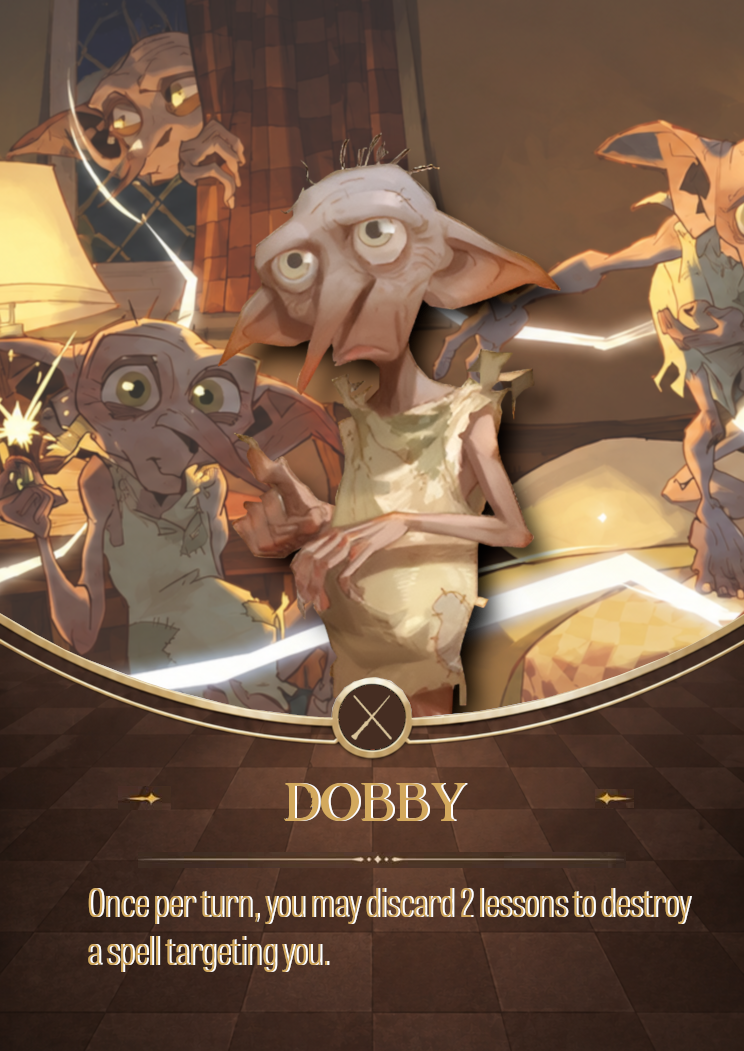
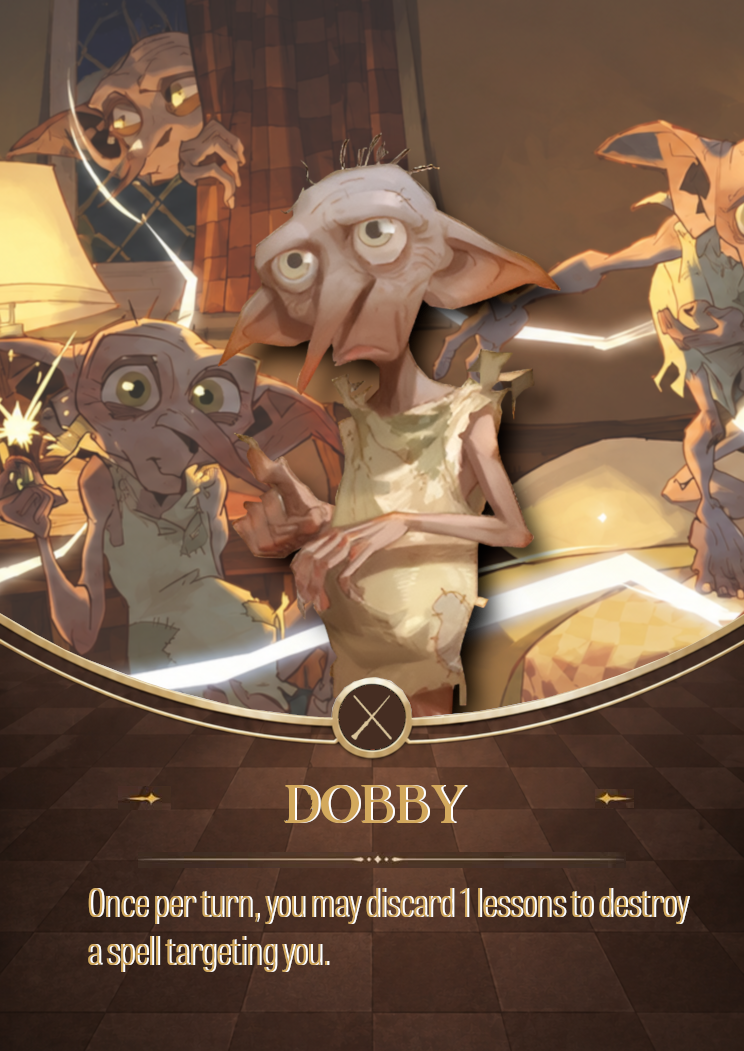
v1.95 Draco is here

Changed region(s): [[0.4019, 0.7307, 0.6183, 0.7916], [0.6183, 0.8221, 0.9274, 0.883]]

diff --git a/index.html b/index.html
@@ -246,7 +246,7 @@
 <div class="modal" id="deckCodeModal" style="z-index:1100;width:min(620px,94vw)"><div style="display:flex;justify-content:space-between;align-items:center;gap:8px"><h2 id="deckCodeTitle" style="margin:0">Deck Code</h2><button onclick="closeDeckCodeModal()">Close</button></div><p id="deckCodeHelp"></p><textarea id="deckCodeInput" spellcheck="false" style="width:100%;height:135px;resize:vertical;background:#0e1116;color:#eee;border:1px solid #48515e;border-radius:7px;padding:10px;font:12px monospace;margin:8px 0"></textarea><div style="display:flex;justify-content:flex-end;gap:8px"><button id="deckCodeCopy" onclick="copyDeckCode()">Copy Code</button><button id="deckCodeImport" onclick="importDeckCode()">Import Deck</button></div></div><div id="lookRevealOverlay" class="lookRevealOverlay" style="display:none"><div class="lookRevealPanel"><div class="lookRevealHeader"><b id="lookRevealTitle">Opponent reveals cards</b><button onclick="closeLookReveal()">Close</button></div><div id="lookRevealCards" class="lookRevealCards"></div></div></div><div class="deckModal" id="deckModal"><div class="deckBox"><div class="deckHead"><b id="deckTitle">Deck</b><button onclick="closeDeckViewer()">Close</button></div><div class="deckControls" id="deckControls"></div><div class="deckCards" id="deckCards"></div></div></div><script src="https://cdn.jsdelivr.net/npm/@supabase/supabase-js@2/dist/umd/supabase.js"></script><script>
 let id=1,phase='setup',turn=1,sel=null,selDeck=null,viewPlayer=1;const P={1:newP(),2:newP()};function newP(){return{main:[],lessonDeck:[],hand:[],handRevealed:false,lessons:[],play:[],discard:[],lessonDiscard:[],mull:[],char:null,life:20,actionsLeft:2,lessonsPlayed:0,dobbyUsed:false}}
 let history=[];function snapshot(){return JSON.parse(JSON.stringify({P,phase,turn}));}function pushHistory(){if(phase!=='game')return;history.push(snapshot());if(history.length>50)history.shift();}function undoMove(){if(lobbyMode==='invite'&&onlineStarted){requestOnlineUndo();return}if(phase!=='game'||!history.length){toast('Nothing to undo.');return}let h=history.pop();Object.keys(P).forEach(k=>P[k]=h.P[k]);phase=h.phase;turn=h.turn;sel=null;selDeck=null;render();document.getElementById('status').textContent='Player '+turn+' Turn';toast('Last action undone.')}
-const CARD_DB={"Harry Potter":{"type":"Ally","domain":"Neutral","cost":0,"effect":"Once per turn, when you play your second card, draw 1 card.","image":"cards/allies/char_harry.png"},"Ron Weasley":{"type":"Ally","domain":"Neutral","cost":0,"effect":"When you play an Ally, it costs 1 Action instead of 2.","image":"cards/allies/char_ron.png"},"Hermione Granger":{"type":"Ally","domain":"Neutral","cost":0,"effect":"Once per turn, when you play your second spell, draw 1 Lesson.","image":"cards/allies/char_hermione.png"},"Luna Lovegood":{"type":"Ally","domain":"Neutral","cost":0,"effect":"Once per turn, if you control 6 or more Lessons, you may discard 2 Lessons to create a Thestral Token.","image":"cards/allies/char_luna.png"},"Neville Longbottom":{"type":"Ally","domain":"Neutral","cost":0,"effect":"Once per turn, when you play a Creature, you may restore 2 Health to a Creature or Player.","image":"cards/allies/char_neville.png"},"Dobby":{"type":"Ally","domain":"Neutral","cost":0,"effect":"Once per turn, you may discard 2 Lessons to destroy a Spell targeting you.","image":"cards/allies/char_dobby.png"},"Aquamenti":{"type":"Spell","domain":"Charms","cost":2,"effect":"Deal 2 damage to a Creature or player.","image":"cards/charms/charm_aguamenti.png"},"Flipendo":{"type":"Quick Spell","domain":"Charms","cost":2,"effect":"Return a Creature with a Cost of 3 or less to its owner's hand.","image":"cards/charms/charm_flipendo.png"},"Stupefy":{"type":"Spell","domain":"Charms","cost":2,"effect":"Deal 2 damage to a Creature or Player. If your opponent controls exactly one Creature, deal 2 additional damage to that Creature or the player.","image":"cards/charms/charm_stupefy.png"},"Episkey":{"type":"Spell","domain":"Charms","cost":2,"effect":"Restore 4 Health to a Creature or Player.","image":"cards/charms/charm_episkey.png"},"Expelliarmus":{"type":"Spell","domain":"Charms","cost":3,"effect":"Deal 2 damage to a Player. Additional Cost — Discard 1 Lesson: Destroy an Ongoing Spell or an Item.","image":"cards/charms/charm_expelliarmus.png"},"Priori Incantatem":{"type":"Spell","domain":"Charms","cost":3,"effect":"Discard a card from your hand. Return a Spell from your discard pile to your hand.","image":"cards/charms/charm_priori.png"},"Protego":{"type":"Quick Spell","domain":"Charms","cost":3,"effect":"Shield 5 to a target.","image":"cards/charms/charm_protego.png"},"Atmospheric Charm":{"type":"Spell","domain":"Charms","cost":5,"effect":"Each Player shuffles their hand into their deck, then draws 4 cards.","image":"cards/charms/charm_atmospheric.png"},"Incendio":{"type":"Spell","domain":"Charms","cost":5,"effect":"Deal 4 damage to a target and 1 damage to each other valid target in play.","image":"cards/charms/charm_incendio.png"},"Reducto":{"type":"Spell","domain":"Charms","cost":6,"effect":"Deal 1 damage to your opponent, plus 1 additional damage for each damage they have taken.","image":"cards/charms/charm_reducto.png"},"Wildfire Whiz Bangs":{"type":"Spell","domain":"Charms","cost":7,"effect":"Deal 7 damage to a Creature or Player.","image":"cards/charms/charm_whizbangs.png"},"Apparate":{"type":"Quick Spell","domain":"Transfiguration","cost":1,"effect":"Choose one: Destroy a Location; or destroy a Spell targeting you.","image":"cards/transfiguration/transf_apparate.png"},"Avis":{"type":"Spell","domain":"Transfiguration","cost":2,"effect":"Additional Cost — Discard 1 Transfiguration Lesson: Create 2 Bird Tokens.","image":"cards/transfiguration/transf_avis.png"},"Confundus":{"type":"Quick Spell","domain":"Transfiguration","cost":2,"effect":"Choose one: Look at your opponent's hand; or return a Spell your opponent is playing to their hand.","image":"cards/transfiguration/transf_confundus.png"},"Incarcerous":{"type":"Spell","domain":"Transfiguration","cost":2,"effect":"The next Spell you play this turn that targets an opponent's card affects all valid targets controlled by that opponent instead of one.","image":"cards/transfiguration/transf_incarcerous.png"},"Bat Bogey Hex":{"type":"Quick Spell","domain":"Transfiguration","cost":3,"effect":"Destroy a Spell with a Cost of 4 or less. If you do, draw a card.","image":"cards/transfiguration/transf_batbogeyhex.png"},"Glacius":{"type":"Ongoing Spell","domain":"Transfiguration","cost":2,"effect":"Countdown 1: Freeze a target.","image":"cards/transfiguration/transf_glacius.png"},"Glacius Maxima":{"type":"Ongoing Spell","domain":"Transfiguration","cost":4,"effect":"Countdown 2: Freeze up to 3 targets.","image":"cards/transfiguration/transf_glaciusmaxima.png"},"Oppugno":{"type":"Ongoing Spell","domain":"Transfiguration","cost":3,"effect":"Countdown 1: Deal 1 damage to a Player, plus 1 additional damage for every 2 Creatures you control.","image":"cards/transfiguration/transf_oppugno.png"},"Petrificus Totalus":{"type":"Quick Spell","domain":"Transfiguration","cost":3,"effect":"Choose one: Destroy an ally; or freeze a creature.","image":"cards/transfiguration/transf_petrificus.png"},"Carpe Retractum":{"type":"Spell","domain":"Transfiguration","cost":3,"effect":"Return up to 2 items you control to your hand.","image":"cards/transfiguration/transf_carperetractum.png"},"Piertotum Locomotor":{"type":"Spell","domain":"Transfiguration","cost":6,"effect":"Create 2 Stone Guardian Tokens.","image":"cards/transfiguration/transf_piertotum.png"},"Pawn":{"type":"Creature","domain":"Neutral","cost":2,"health":1,"damage":1,"effect":"When this is destroyed: draw 1 card.","image":"cards/creatures/creature_pawn.png"},"Bowtruckle":{"type":"Creature","domain":"Neutral","cost":2,"health":2,"damage":1,"effect":"When this enters play: look at the top 3 cards of your deck. You may reveal an Item among them and put it into your hand. Put the rest on the bottom.","image":"cards/creatures/creature_bowtruckle.png"},"Mooncalf":{"type":"Creature","domain":"Neutral","cost":2,"health":2,"damage":1,"effect":"The first time you play a Lesson each turn: Mooncalf gets +1 Damage until end of turn.","image":"cards/creatures/creature_mooncalf.png"},"Niffler":{"type":"Creature","domain":"Neutral","cost":2,"health":2,"damage":0,"effect":"Niffler counts as a Lesson while in play.","image":"cards/creatures/creature_niffler.png"},"Pixies":{"type":"Creature","domain":"Neutral","cost":2,"health":1,"damage":2,"effect":"When this enters play: if you control another Creature, draw 1 card.","image":"cards/creatures/creature_pixies.png"},"Snowman":{"type":"Creature","domain":"Neutral","cost":2,"health":3,"damage":1,"effect":"When this deals damage to a Player, Freeze an opposing Creature.","image":"cards/creatures/creature_snowman.png"},"Firecrab":{"type":"Creature","domain":"Neutral","cost":3,"health":4,"damage":2,"effect":"Block (You must deal damage to me first).","image":"cards/creatures/creature_firecrab.png"},"Monster Book":{"type":"Creature","domain":"Neutral","cost":3,"health":3,"damage":2,"effect":"When this enters play: return a Spell with Cost 3 or less from your discard pile to your hand.","image":"cards/creatures/creature_mosterbook.png"},"Transfiguration Lesson":{"type":"Lesson","cost":0,"domain":"Transfiguration","image":"cards/lessons/lesson_transfiguration.png"},"Charm Lesson":{"type":"Lesson","cost":0,"domain":"Charms","image":"cards/lessons/lesson_charm.png"},"Quidditch Lesson":{"type":"Lesson","cost":0,"domain":"Quidditch","image":"cards/lessons/lesson_quidditch.png"},"Potions & Items Lesson":{"type":"Lesson","cost":0,"domain":"Potions","image":"cards/lessons/lesson_potions.png"},"Dark Arts Lesson":{"type":"Lesson","cost":0,"domain":"Dark Arts","image":"cards/lessons/lesson_dark.png"},"Flying Broom":{"type":"Item","domain":"Quidditch","cost":2,"effect":"When this enters play, choose one: Draw 1 card or Discard a card to Draw a lesson.","image":"cards/quidditch/quidd_broom.png"},"Golden Snitch":{"type":"Item","domain":"Quidditch","cost":2,"effect":"When this enters play or is returned to its owner's hand, you may draw 1 card.","image":"cards/quidditch/quidd_snitch.png"},"Golden Snidget":{"type":"Creature","domain":"Quidditch","cost":2,"life":2,"damage":2,"effect":"Whenever this deals damage to a Player, draw a card.","image":"cards/quidditch/quidd_snidget.png"},"Bludger":{"type":"Item","domain":"Quidditch","cost":3,"effect":"When this enters play or is returned to its owner's hand, deal 2 damage to a target.","image":"cards/quidditch/quidd_bludger.png"},"Quidditch Kit":{"type":"Item","domain":"Quidditch","cost":3,"effect":"The first time you play a Quidditch card each turn, look at the top 2 cards of your deck. Put one into your hand and the other on the bottom.","image":"cards/quidditch/quidd_kit.png"},"Winged Catapult":{"type":"Creature","domain":"Quidditch","cost":3,"life":3,"damage":2,"effect":"Whenever this deals damage to a Player, look at the top card of your deck. You may put it on the bottom.","image":"cards/quidditch/quidd_winged.png"},"Beater":{"type":"Ally","domain":"Quidditch","cost":"-","effect":"Once per turn, you may discard a card: Return a Quidditch Item to its owner's hand.","image":"cards/quidditch/quidd_beater.png"},"Seeker":{"type":"Ally","domain":"Quidditch","cost":"-","effect":"Once per turn, search your deck for a Golden Snitch or Quidditch Item, reveal it, put it into your hand, then shuffle.","image":"cards/quidditch/quidd_seeker.png"},"Guardian":{"type":"Ally","domain":"Quidditch","cost":"-","effect":"When damage would be dealt to you or a Quidditch Creature you control, discard me to prevent that damage.","image":"cards/quidditch/quidd_guardian.png"},"Memory Vial":{"type":"Item","domain":"Potions","cost":3,"effect":"Once per turn, you may discard a card from your hand to draw a Lesson.","image":"cards/potions/potinos_memoryvial.png"},"Weasley Fireworks":{"type":"Item","domain":"Potions","cost":2,"effect":"Once per turn, deal 1 damage to a Creature.","image":"cards/potions/potinos_wealeyfireworks.png"},"Stone Guardian":{"type":"Creature","domain":"Neutral","cost":0,"health":4,"life":4,"damage":1,"effect":"Block (You must deal damage to me first).","image":"cards/tokens/token_stoneguardian.png","token":true},"Luna's Thestral":{"type":"Creature","domain":"Neutral","cost":0,"health":3,"life":3,"damage":3,"effect":"Sacrifice this and discard 2 Lessons: Deal 2 damage to a target, plus 1 additional damage for each Spell in your discard pile.","image":"cards/tokens/token_thestrals.png","token":true},"Magical Birds":{"type":"Creature","domain":"Neutral","cost":0,"health":1,"life":1,"damage":1,"effect":"","image":"cards/tokens/token_magicalbirds.png","token":true},"Diffindo":{"type":"Spell","domain":"Transfiguration","cost":5,"effect":"Deal 3 damage to a target. Then, deal 3 damage to each Frozen target.","image":"cards/transfiguration/transf_diffindo.png"},"Yeti":{"type":"Creature","domain":"Neutral","cost":5,"health":5,"damage":3,"effect":"Countdown 2: Freeze up to 3 targets.","image":"cards/creatures/creature_yeti.png"},"Orb of Water":{"type":"Ongoing Spell","domain":"Transfiguration","cost":6,"effect":"Countdown 1: Freeze up to 3 targets and deal 1 damage to each of them. When this card is discarded, deal 3 damage to the same targets.","image":"cards/transfiguration/transf_orb.png"},"Accio":{"type":"Spell","domain":"Charms","cost":3,"effect":"Return a Lesson from your discard pile to play.","image":"cards/charms/charm_accio.png"},"Wingardium Leviosa":{"type":"Spell","domain":"Charms","cost":3,"effect":"Additional Cost — Discard 1 Lesson: You may return an Item you control to your hand. If you paid the additional cost, return an Item from your discard pile to your hand.","image":"cards/charms/charm_wingardium.png"},"Nebulus":{"type":"Ongoing Spell","domain":"Charms","cost":4,"effect":"Countdown 2: Your opponent cannot target you with cards they control.","image":"cards/charms/charm_nebulus.png"},"Protego Totalum":{"type":"Spell","domain":"Charms","cost":6,"effect":"Shield 5 to you and each Creature you control.","image":"cards/charms/charm_protego_t.png"},"Slug Vomiting Charm":{"type":"Ongoing Spell","domain":"Charms","cost":2,"effect":"Countdown 2: Freeze your opponent's Starting Ally. Then, your opponent discards a card.","image":"cards/charms/charm_slugs.png"},"Expecto Patronus":{"type":"Spell","domain":"Transfiguration","cost":4,"effect":"Destroy a Creature with a Cost of 5 or less then draw 1. If it was a Dementor, draw 2.","image":"cards/transfiguration/transf_patronus.png"},"Time Turner":{"type":"Item","domain":"Potions","cost":6,"effect":"Once per turn, you may discard 3 cards from your hand to take 1 additional Action.","image":"cards/potions/potions_time.png"},"Portkey":{"type":"Item","domain":"Potions","cost":3,"effect":"Once per turn, you may shuffle a card from your hand to draw 1.","image":"cards/potions/potions_portkey.png"},"Chomping Cabbage":{"type":"Creature","domain":"Potions","cost":3,"health":3,"damage":2,"effect":"The first time you play a Potion each turn, Chomping Cabbage gets 1 additional damage.","image":"cards/potions/potinos_cabbage.png"},"Weasley Bomb Box":{"type":"Item","domain":"Potions","cost":4,"effect":"All Creatures you control deal 1 additional damage.","image":"cards/potions/potinos_weasleybombs.png"},"Swelling Solution":{"type":"Potion","domain":"Potions","cost":2,"effect":"Countdown 2: Your Creatures and Basic Casts deal 1 additional damage.","image":"cards/potions/potinos_swelling.png"},"Felix Felicis":{"type":"Potion","domain":"Potions","cost":5,"effect":"Countdown 1: Look at the top 3 cards of your deck. You may choose a Spell and play it for no cost.","image":"cards/potions/potinos_felix.png"}};const BACKS={main:'cards/backs/main_back.png',lesson:'cards/backs/lesson_back.png'};const cards=Object.entries(CARD_DB).filter(([n,d])=>d.type!=='Lesson'&&!d.token).map(([n,d])=>[n,d.type,d.cost]);
+const CARD_DB={"Draco Malfoy":{"type":"Ally","domain":"Neutral","cost":0,"effect":"Once per turn, you may discard a card. If you do, look at your opponent's hand and discard a card.","image":"cards/allies/char_draco.png"},"Harry Potter":{"type":"Ally","domain":"Neutral","cost":0,"effect":"Once per turn, when you play your second card, draw 1 card.","image":"cards/allies/char_harry.png"},"Ron Weasley":{"type":"Ally","domain":"Neutral","cost":0,"effect":"When you play an Ally, it costs 1 Action instead of 2.","image":"cards/allies/char_ron.png"},"Hermione Granger":{"type":"Ally","domain":"Neutral","cost":0,"effect":"Once per turn, when you play your second spell, draw 1 Lesson.","image":"cards/allies/char_hermione.png"},"Luna Lovegood":{"type":"Ally","domain":"Neutral","cost":0,"effect":"Once per turn, if you control 6 or more Lessons, you may discard 2 Lessons to create a Thestral Token.","image":"cards/allies/char_luna.png"},"Neville Longbottom":{"type":"Ally","domain":"Neutral","cost":0,"effect":"Once per turn, when you play a Creature, you may restore 2 Health to a Creature or Player.","image":"cards/allies/char_neville.png"},"Dobby":{"type":"Ally","domain":"Neutral","cost":0,"effect":"Once per turn, you may discard 1 Lesson to destroy a Spell targeting you.","image":"cards/allies/char_dobby.png"},"Aquamenti":{"type":"Spell","domain":"Charms","cost":2,"effect":"Deal 2 damage to a Creature or player.","image":"cards/charms/charm_aguamenti.png"},"Flipendo":{"type":"Quick Spell","domain":"Charms","cost":2,"effect":"Return a Creature with a Cost of 3 or less to its owner's hand.","image":"cards/charms/charm_flipendo.png"},"Stupefy":{"type":"Spell","domain":"Charms","cost":2,"effect":"Deal 2 damage to a Creature or Player. If your opponent controls exactly one Creature, deal 2 additional damage to that Creature or the player.","image":"cards/charms/charm_stupefy.png"},"Episkey":{"type":"Spell","domain":"Charms","cost":2,"effect":"Restore 4 Health to a Creature or Player.","image":"cards/charms/charm_episkey.png"},"Expelliarmus":{"type":"Spell","domain":"Charms","cost":3,"effect":"Deal 2 damage to a Player. Additional Cost — Discard 1 Lesson: Destroy an Ongoing Spell or an Item.","image":"cards/charms/charm_expelliarmus.png"},"Priori Incantatem":{"type":"Spell","domain":"Charms","cost":3,"effect":"Discard a card from your hand. Return a Spell from your discard pile to your hand.","image":"cards/charms/charm_priori.png"},"Protego":{"type":"Quick Spell","domain":"Charms","cost":3,"effect":"Shield 5 to a target.","image":"cards/charms/charm_protego.png"},"Atmospheric Charm":{"type":"Spell","domain":"Charms","cost":5,"effect":"Each Player shuffles their hand into their deck, then draws 4 cards.","image":"cards/charms/charm_atmospheric.png"},"Incendio":{"type":"Spell","domain":"Charms","cost":5,"effect":"Deal 4 damage to a target and 1 damage to each other valid target in play.","image":"cards/charms/charm_incendio.png"},"Reducto":{"type":"Spell","domain":"Charms","cost":6,"effect":"Deal 1 damage to your opponent, plus 1 additional damage for each damage they have taken.","image":"cards/charms/charm_reducto.png"},"Wildfire Whiz Bangs":{"type":"Spell","domain":"Charms","cost":7,"effect":"Deal 7 damage to a Creature or Player.","image":"cards/charms/charm_whizbangs.png"},"Apparate":{"type":"Quick Spell","domain":"Transfiguration","cost":1,"effect":"Choose one: Destroy a Location; or destroy a Spell targeting you.","image":"cards/transfiguration/transf_apparate.png"},"Avis":{"type":"Spell","domain":"Transfiguration","cost":2,"effect":"Additional Cost — Discard 1 Transfiguration Lesson: Create 2 Bird Tokens.","image":"cards/transfiguration/transf_avis.png"},"Confundus":{"type":"Quick Spell","domain":"Transfiguration","cost":2,"effect":"Choose one: Look at your opponent's hand; or return a Spell your opponent is playing to their hand.","image":"cards/transfiguration/transf_confundus.png"},"Incarcerous":{"type":"Spell","domain":"Transfiguration","cost":2,"effect":"The next Spell you play this turn that targets an opponent's card affects all valid targets controlled by that opponent instead of one.","image":"cards/transfiguration/transf_incarcerous.png"},"Bat Bogey Hex":{"type":"Quick Spell","domain":"Transfiguration","cost":3,"effect":"Destroy a Spell with a Cost of 4 or less. If you do, draw a card.","image":"cards/transfiguration/transf_batbogeyhex.png"},"Glacius":{"type":"Ongoing Spell","domain":"Transfiguration","cost":2,"effect":"Countdown 1: Freeze a target.","image":"cards/transfiguration/transf_glacius.png"},"Glacius Maxima":{"type":"Ongoing Spell","domain":"Transfiguration","cost":4,"effect":"Countdown 2: Freeze up to 3 targets.","image":"cards/transfiguration/transf_glaciusmaxima.png"},"Oppugno":{"type":"Ongoing Spell","domain":"Transfiguration","cost":3,"effect":"Countdown 1: Deal 1 damage to a Player, plus 1 additional damage for every 2 Creatures you control.","image":"cards/transfiguration/transf_oppugno.png"},"Petrificus Totalus":{"type":"Quick Spell","domain":"Transfiguration","cost":3,"effect":"Choose one: Destroy an ally; or freeze a creature.","image":"cards/transfiguration/transf_petrificus.png"},"Carpe Retractum":{"type":"Spell","domain":"Transfiguration","cost":3,"effect":"Return up to 2 items you control to your hand.","image":"cards/transfiguration/transf_carperetractum.png"},"Piertotum Locomotor":{"type":"Spell","domain":"Transfiguration","cost":6,"effect":"Create 2 Stone Guardian Tokens.","image":"cards/transfiguration/transf_piertotum.png"},"Pawn":{"type":"Creature","domain":"Neutral","cost":2,"health":1,"damage":1,"effect":"When this is destroyed: draw 1 card.","image":"cards/creatures/creature_pawn.png"},"Bowtruckle":{"type":"Creature","domain":"Neutral","cost":2,"health":2,"damage":1,"effect":"When this enters play: look at the top 3 cards of your deck. You may reveal an Item among them and put it into your hand. Put the rest on the bottom.","image":"cards/creatures/creature_bowtruckle.png"},"Mooncalf":{"type":"Creature","domain":"Neutral","cost":2,"health":2,"damage":1,"effect":"The first time you play a Lesson each turn: Mooncalf gets +1 Damage until end of turn.","image":"cards/creatures/creature_mooncalf.png"},"Niffler":{"type":"Creature","domain":"Neutral","cost":2,"health":2,"damage":0,"effect":"Niffler counts as a Lesson while in play.","image":"cards/creatures/creature_niffler.png"},"Pixies":{"type":"Creature","domain":"Neutral","cost":2,"health":1,"damage":2,"effect":"When this enters play: if you control another Creature, draw 1 card.","image":"cards/creatures/creature_pixies.png"},"Snowman":{"type":"Creature","domain":"Neutral","cost":2,"health":3,"damage":1,"effect":"When this deals damage to a Player, Freeze an opposing Creature.","image":"cards/creatures/creature_snowman.png"},"Firecrab":{"type":"Creature","domain":"Neutral","cost":3,"health":4,"damage":2,"effect":"Block (You must deal damage to me first).","image":"cards/creatures/creature_firecrab.png"},"Monster Book":{"type":"Creature","domain":"Neutral","cost":3,"health":3,"damage":2,"effect":"When this enters play: return a Spell with Cost 3 or less from your discard pile to your hand.","image":"cards/creatures/creature_mosterbook.png"},"Transfiguration Lesson":{"type":"Lesson","cost":0,"domain":"Transfiguration","image":"cards/lessons/lesson_transfiguration.png"},"Charm Lesson":{"type":"Lesson","cost":0,"domain":"Charms","image":"cards/lessons/lesson_charm.png"},"Quidditch Lesson":{"type":"Lesson","cost":0,"domain":"Quidditch","image":"cards/lessons/lesson_quidditch.png"},"Potions & Items Lesson":{"type":"Lesson","cost":0,"domain":"Potions","image":"cards/lessons/lesson_potions.png"},"Dark Arts Lesson":{"type":"Lesson","cost":0,"domain":"Dark Arts","image":"cards/lessons/lesson_dark.png"},"Flying Broom":{"type":"Item","domain":"Quidditch","cost":2,"effect":"When this enters play, choose one: Draw 1 card or Discard a card to Draw a lesson.","image":"cards/quidditch/quidd_broom.png"},"Golden Snitch":{"type":"Item","domain":"Quidditch","cost":2,"effect":"When this enters play or is returned to its owner's hand, you may draw 1 card.","image":"cards/quidditch/quidd_snitch.png"},"Golden Snidget":{"type":"Creature","domain":"Quidditch","cost":2,"life":2,"damage":2,"effect":"Whenever this deals damage to a Player, draw a card.","image":"cards/quidditch/quidd_snidget.png"},"Bludger":{"type":"Item","domain":"Quidditch","cost":3,"effect":"When this enters play or is returned to its owner's hand, deal 2 damage to a target.","image":"cards/quidditch/quidd_bludger.png"},"Quidditch Kit":{"type":"Item","domain":"Quidditch","cost":3,"effect":"The first time you play a Quidditch card each turn, look at the top 2 cards of your deck. Put one into your hand and the other on the bottom.","image":"cards/quidditch/quidd_kit.png"},"Winged Catapult":{"type":"Creature","domain":"Quidditch","cost":3,"life":3,"damage":2,"effect":"Whenever this deals damage to a Player, look at the top card of your deck. You may put it on the bottom.","image":"cards/quidditch/quidd_winged.png"},"Beater":{"type":"Ally","domain":"Quidditch","cost":"-","effect":"Once per turn, you may discard a card: Return a Quidditch Item to its owner's hand.","image":"cards/quidditch/quidd_beater.png"},"Seeker":{"type":"Ally","domain":"Quidditch","cost":"-","effect":"Once per turn, search your deck for a Golden Snitch or Quidditch Item, reveal it, put it into your hand, then shuffle.","image":"cards/quidditch/quidd_seeker.png"},"Guardian":{"type":"Ally","domain":"Quidditch","cost":"-","effect":"When damage would be dealt to you or a Quidditch Creature you control, discard me to prevent that damage.","image":"cards/quidditch/quidd_guardian.png"},"Memory Vial":{"type":"Item","domain":"Potions","cost":3,"effect":"Once per turn, you may discard a card from your hand to draw a Lesson.","image":"cards/potions/potinos_memoryvial.png"},"Weasley Fireworks":{"type":"Item","domain":"Potions","cost":2,"effect":"Once per turn, deal 1 damage to a Creature.","image":"cards/potions/potinos_wealeyfireworks.png"},"Stone Guardian":{"type":"Creature","domain":"Neutral","cost":0,"health":4,"life":4,"damage":1,"effect":"Block (You must deal damage to me first).","image":"cards/tokens/token_stoneguardian.png","token":true},"Luna's Thestral":{"type":"Creature","domain":"Neutral","cost":0,"health":3,"life":3,"damage":3,"effect":"Sacrifice this and discard 2 Lessons: Deal 2 damage to a target, plus 1 additional damage for each Spell in your discard pile.","image":"cards/tokens/token_thestrals.png","token":true},"Magical Birds":{"type":"Creature","domain":"Neutral","cost":0,"health":1,"life":1,"damage":1,"effect":"","image":"cards/tokens/token_magicalbirds.png","token":true},"Diffindo":{"type":"Spell","domain":"Transfiguration","cost":5,"effect":"Deal 3 damage to a target. Then, deal 3 damage to each Frozen target.","image":"cards/transfiguration/transf_diffindo.png"},"Yeti":{"type":"Creature","domain":"Neutral","cost":5,"health":5,"damage":3,"effect":"Countdown 2: Freeze up to 3 targets.","image":"cards/creatures/creature_yeti.png"},"Orb of Water":{"type":"Ongoing Spell","domain":"Transfiguration","cost":6,"effect":"Countdown 1: Freeze up to 3 targets and deal 1 damage to each of them. When this card is discarded, deal 3 damage to the same targets.","image":"cards/transfiguration/transf_orb.png"},"Accio":{"type":"Spell","domain":"Charms","cost":3,"effect":"Return a Lesson from your discard pile to play.","image":"cards/charms/charm_accio.png"},"Wingardium Leviosa":{"type":"Spell","domain":"Charms","cost":3,"effect":"Additional Cost — Discard 1 Lesson: You may return an Item you control to your hand. If you paid the additional cost, return an Item from your discard pile to your hand.","image":"cards/charms/charm_wingardium.png"},"Nebulus":{"type":"Ongoing Spell","domain":"Charms","cost":4,"effect":"Countdown 2: Your opponent cannot target you with cards they control.","image":"cards/charms/charm_nebulus.png"},"Protego Totalum":{"type":"Spell","domain":"Charms","cost":6,"effect":"Shield 5 to you and each Creature you control.","image":"cards/charms/charm_protego_t.png"},"Slug Vomiting Charm":{"type":"Ongoing Spell","domain":"Charms","cost":2,"effect":"Countdown 2: Freeze your opponent's Starting Ally. Then, your opponent discards a card.","image":"cards/charms/charm_slugs.png"},"Expecto Patronus":{"type":"Spell","domain":"Transfiguration","cost":4,"effect":"Destroy a Creature with a Cost of 5 or less then draw 1. If it was a Dementor, draw 2.","image":"cards/transfiguration/transf_patronus.png"},"Time Turner":{"type":"Item","domain":"Potions","cost":6,"effect":"Once per turn, you may discard 3 cards from your hand to take 1 additional Action.","image":"cards/potions/potions_time.png"},"Portkey":{"type":"Item","domain":"Potions","cost":3,"effect":"Once per turn, you may shuffle a card from your hand to draw 1.","image":"cards/potions/potions_portkey.png"},"Chomping Cabbage":{"type":"Creature","domain":"Potions","cost":3,"health":3,"damage":2,"effect":"The first time you play a Potion each turn, Chomping Cabbage gets 1 additional damage.","image":"cards/potions/potinos_cabbage.png"},"Weasley Bomb Box":{"type":"Item","domain":"Potions","cost":4,"effect":"All Creatures you control deal 1 additional damage.","image":"cards/potions/potinos_weasleybombs.png"},"Swelling Solution":{"type":"Potion","domain":"Potions","cost":2,"effect":"Countdown 2: Your Creatures and Basic Casts deal 1 additional damage.","image":"cards/potions/potinos_swelling.png"},"Felix Felicis":{"type":"Potion","domain":"Potions","cost":5,"effect":"Countdown 1: Look at the top 3 cards of your deck. You may choose a Spell and play it for no cost.","image":"cards/potions/potinos_felix.png"}};const BACKS={main:'cards/backs/main_back.png',lesson:'cards/backs/lesson_back.png'};const cards=Object.entries(CARD_DB).filter(([n,d])=>d.type!=='Lesson'&&!d.token).map(([n,d])=>[n,d.type,d.cost]);
 function C(n,t,c,img=null){return{id:id++,name:n,type:t,cost:c,counter:0,life:t==='Creature'?null:null,image:img,face:1,tapped:false,frozen:false,shield:false,rot:0,x:10,y:10}}function sh(a){for(let i=a.length-1;i>0;i--){let j=Math.random()*(i+1)|0;[a[i],a[j]]=[a[j],a[i]]}return a}function cardFromDB(name,extra={}){let d=CARD_DB[name];if(!d)throw new Error('Card not found in database: '+name);return C(name,d.type,d.cost,extra.image||d.image||null)}function buildCards(list){return list.flatMap(entry=>{if(typeof entry==='string')return[cardFromDB(entry)];let n=entry.name,count=entry.count||1;return Array.from({length:count},()=>cardFromDB(n,entry))})}function draw(p,n=1){while(n--&&P[p].main.length)P[p].hand.push(P[p].main.pop())}function toast(t){let x=document.getElementById('toast');x.textContent=t;x.classList.add('show');setTimeout(()=>x.classList.remove('show'),1300)}
 let loadedDecks={1:null,2:null};
 let savedDecks=loadSavedDecks();
@@ -538,19 +538,19 @@ function useDobbyAbility(){
  const top=spellChain[spellChain.length-1],s=P[me];
  if(!top||top.player===me||s.char?.name!=='Dobby')return;if(s.char.frozen){toast('Dobby is Frozen and cannot use his ability.');return;}
  if(s.dobbyUsed){toast('Dobby ability has already been used this turn.');return;}
- if(s.lessons.length<2){toast('Dobby ability requires 2 Lessons in play.');return;}
+ if(s.lessons.length<1){toast('Dobby ability requires 1 Lesson in play.');return;}
  // The simulator does not track spell targets; the player confirms eligibility.
- if(!confirm('Dobby ability can only destroy a Spell targeting you.\\n\\nIs '+top.card.name+' targeting you? Discard 2 Lessons to destroy it?'))return;
+ if(!confirm('Dobby ability can only destroy a Spell targeting you.\\n\\nIs '+top.card.name+' targeting you? Discard 1 Lesson to destroy it?'))return;
  pushHistory();
  s.dobbyUsed=true;
- for(let i=0;i<2;i++){const lesson=s.lessons.pop();lesson.tapped=false;s.lessonDiscard.push(lesson);}
+ for(let i=0;i<1;i++){const lesson=s.lessons.pop();lesson.tapped=false;s.lessonDiscard.push(lesson);}
  const countered=spellChain.pop();
  P[countered.player].discard.push(countered.card);
- const msg='Dobby ability: discarded 2 Lessons and destroyed '+countered.card.name+'.';
+ const msg='Dobby ability: discarded 1 Lesson and destroyed '+countered.card.name+'.';
  appendComm('log',me,msg);
  if(lobbyMode==='invite')onlineSend('action',{message:msg});
  spellChainBroadcast();
- toast('Dobby ability used. 2 Lessons discarded.');
+ toast('Dobby ability used. 1 Lesson discarded.');
 }
 function renderSpellChain(){
  const modal=document.getElementById('spellOverlay');if(!modal)return;
@@ -567,14 +567,14 @@ function renderSpellChain(){
  available.forEach(c=>{const b=document.createElement('button');b.textContent=c.name+' • Cost '+c.cost;b.onclick=()=>spellChainCast(me,c.id,true);quick.appendChild(b)});
  if(P[me].char?.name==='Dobby'&&!P[me].char.frozen){
   const b=document.createElement('button');
-  b.textContent='Dobby Ability • Discard 2 Lessons';
+  b.textContent='Dobby Ability • Discard 1 Lesson';
   b.title='Once per turn: destroy a Spell targeting you (no Action cost).';
-  b.disabled=!!P[me].dobbyUsed||P[me].lessons.length<2;
+  b.disabled=!!P[me].dobbyUsed||P[me].lessons.length<1;
   b.onclick=useDobbyAbility;
   quick.appendChild(b);
-  if(P[me].dobbyUsed||P[me].lessons.length<2){
+  if(P[me].dobbyUsed||P[me].lessons.length<1){
    const hint=document.createElement('small');
-   hint.textContent=P[me].dobbyUsed?'Dobby ability already used this turn.':'Dobby needs 2 Lessons in play.';
+   hint.textContent=P[me].dobbyUsed?'Dobby ability already used this turn.':'Dobby needs 1 Lesson in play.';
    quick.appendChild(hint);
   }
  }
@@ -672,7 +672,7 @@ function decodeDeckCode(code){
  let bytes=Uint8Array.from(binary,c=>c.charCodeAt(0));let data=JSON.parse(new TextDecoder('utf-8',{fatal:true}).decode(bytes));
  if(data.v!==1||typeof data.n!=='string'||typeof data.a!=='string'||!Array.isArray(data.m)||!Array.isArray(data.l))throw Error('Unsupported or incomplete deck code.');
  let deck={name:data.n.trim().slice(0,80)||'Imported Deck',startingCharacter:data.a,mainDeck:data.m,lessonDeck:data.l};
- if(!['Harry Potter','Ron Weasley','Hermione Granger','Luna Lovegood','Neville Longbottom','Dobby'].includes(deck.startingCharacter))throw Error('Invalid Starting Ally.');
+ if(!['Harry Potter','Ron Weasley','Hermione Granger','Luna Lovegood','Neville Longbottom','Dobby','Draco Malfoy'].includes(deck.startingCharacter))throw Error('Invalid Starting Ally.');
  if(deck.mainDeck.length!==30||deck.lessonDeck.length!==10)throw Error('Deck must contain 30 main cards and 10 Lessons.');
  if(!deck.mainDeck.every(n=>typeof n==='string'&&CARD_DB[n]&&!CARD_DB[n].token&&CARD_DB[n].type!=='Lesson'))throw Error('Unknown card or token in main deck.');
  if(!deck.lessonDeck.every(n=>typeof n==='string'&&CARD_DB[n]&&CARD_DB[n].type==='Lesson'))throw Error('Unknown Lesson in deck.');
@@ -724,7 +724,7 @@ function renderDeckList(){
  });
 }
 function cardNames(){return Object.keys(CARD_DB)}
-function renderBuilder(){if(!builderDeck)return;document.getElementById('builderName').value=builderDeck.name||'';let sel=document.getElementById('builderAlly');sel.innerHTML='<option value="">Select Starting Ally</option>';['Harry Potter','Ron Weasley','Hermione Granger','Luna Lovegood','Neville Longbottom','Dobby'].filter(n=>CARD_DB[n]&&CARD_DB[n].type==='Ally'&&CARD_DB[n].domain==='Neutral').forEach(n=>{let o=document.createElement('option');o.value=n;o.textContent=n;sel.appendChild(o)});sel.value=builderDeck.startingCharacter||'';document.getElementById('builderMainCount').textContent=builderDeck.mainDeck.length+' / 30';document.getElementById('builderLessonCount').textContent=builderDeck.lessonDeck.length+' / 10';let ok=deckIsComplete(builderDeck);let st=document.getElementById('builderComplete');st.textContent=ok?'Complete':'Incomplete';st.className=ok?'complete':'incomplete';renderBuilderCards();renderBuilderList();renderDeckList();document.getElementById('builderStatus').textContent=builderDeck.name?'Editing: '+builderDeck.name:'New deck'}
+function renderBuilder(){if(!builderDeck)return;document.getElementById('builderName').value=builderDeck.name||'';let sel=document.getElementById('builderAlly');sel.innerHTML='<option value="">Select Starting Ally</option>';['Harry Potter','Ron Weasley','Hermione Granger','Luna Lovegood','Neville Longbottom','Dobby','Draco Malfoy'].filter(n=>CARD_DB[n]&&CARD_DB[n].type==='Ally'&&CARD_DB[n].domain==='Neutral').forEach(n=>{let o=document.createElement('option');o.value=n;o.textContent=n;sel.appendChild(o)});sel.value=builderDeck.startingCharacter||'';document.getElementById('builderMainCount').textContent=builderDeck.mainDeck.length+' / 30';document.getElementById('builderLessonCount').textContent=builderDeck.lessonDeck.length+' / 10';let ok=deckIsComplete(builderDeck);let st=document.getElementById('builderComplete');st.textContent=ok?'Complete':'Incomplete';st.className=ok?'complete':'incomplete';renderBuilderCards();renderBuilderList();renderDeckList();document.getElementById('builderStatus').textContent=builderDeck.name?'Editing: '+builderDeck.name:'New deck'}
 function getDeckDomains(d){let set=new Set();(d.mainDeck||[]).forEach(n=>{let c=CARD_DB[n];if(c&&c.domain&&c.domain!=='Neutral')set.add(c.domain)});(d.lessonDeck||[]).forEach(n=>{let c=CARD_DB[n];if(c&&c.domain&&c.domain!=='Neutral')set.add(c.domain)});if(d.startingCharacter){let c=CARD_DB[d.startingCharacter];if(c&&c.domain&&c.domain!=='Neutral')set.add(c.domain)}return [...set]}
 function cardAllowedInDeck(n){let c=CARD_DB[n];if(!c||c.token)return false;if(c.domain==='Neutral')return true;let domains=getDeckDomains(builderDeck);return domains.length<2||domains.includes(c.domain)}
 function renderBuilderCards(){
